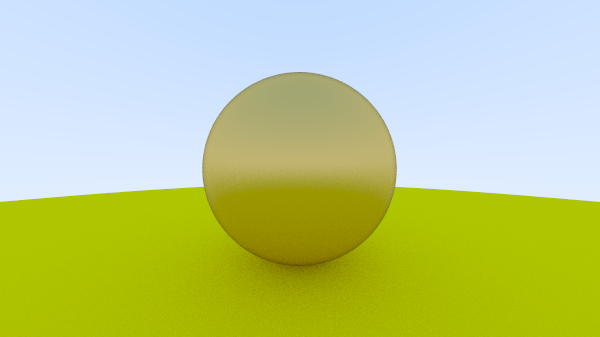
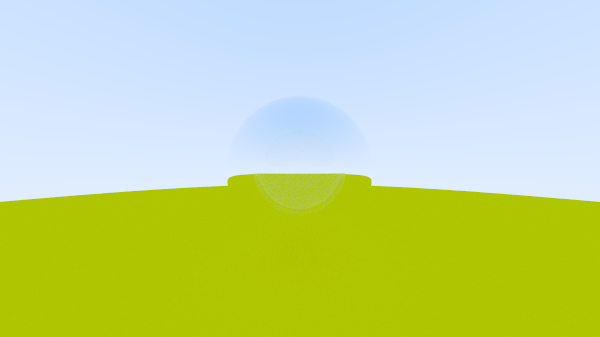
dielectric materials

Changed region(s): [[0.33, 0.2077, 0.66, 0.9792]]

diff --git a/Akari_CUDA/Material.h b/Akari_CUDA/Material.h
@@ -48,3 +48,38 @@ public:
 		return (dot(scattered.direction, rec.normal) > 0);
 	}
 };
+
+class dielectric : public material
+{
+public:
+	double ir;
+
+	dielectric(double refraction_index) : ir(refraction_index){}
+	virtual bool scatter(const ray& r_in, const hit_record& rec, color& attenuation, ray& scattered) const  override
+	{
+		attenuation = color(1.0, 1.0, 1.0);
+		double refraction_ratio = rec.front_face ? (1.0 / ir) : ir;
+		vec3 unit_dir = get_unitVector(r_in.direction);
+
+		double cos_theta = fmin(dot(-unit_dir, rec.normal), 1.0);
+		double sin_theta = sqrt(1.0 - cos_theta * cos_theta);
+
+		bool cant_refract = refraction_ratio * sin_theta > 1.0;
+		vec3 dir;
+
+		if (cant_refract || reflectance(cos_theta,refraction_ratio) > random_double())
+			dir = reflect(unit_dir, rec.normal);
+		else
+			dir = refract(unit_dir, rec.normal, refraction_ratio);
+
+		scattered = ray(rec.p, dir);
+		return true;
+	}
+private:
+	static double reflectance(double cosine, double ref_idx)
+	{
+		auto r0 = (1 - ref_idx) / (1 + ref_idx);
+		r0 = r0 * r0;
+		return r0 + (1 - r0) * pow((1 - cosine), 5);
+	}
+};

diff --git a/Akari_CUDA/Akari.cpp b/Akari_CUDA/Akari.cpp
@@ -12,8 +12,9 @@ int main()
 	auto material_ground = std::make_shared<lambertian>(color(0.8, 0.8, 0.0));
 	auto material_diffuse_sphere = std::make_shared<lambertian>(color(0.7, 0.3, 0.3));
 	auto material_metal = std::make_shared<metal>(color(0.8, 0.6, 0.2), 0.3);
+	auto material_glass = std::make_shared<dielectric>(1.5);
 	hittableList world;
-	world.add(std::make_shared<sphere>(point3(0, 0, -1), 0.5, material_metal));
+	world.add(std::make_shared<sphere>(point3(0, 0, -1), -0.4, material_glass));
 	world.add(std::make_shared<sphere>(point3(0, -100.5, -1), 100, material_ground));
 
 

diff --git a/Akari_CUDA/Vec3.cpp b/Akari_CUDA/Vec3.cpp
@@ -86,6 +86,13 @@ vec3 reflect(const vec3& v, const vec3& n)
 	return v - n * dot(v, n) * 2 ;
 }
 
+vec3 refract(const vec3& v, const vec3& n, double eta)
+{
+	auto cos_theta = fmin(dot(-v, n), 1.0);
+	vec3 r_perp = (v + n * cos_theta) * eta;
+	vec3 r_parallel = n * -sqrt(fabs(1.0 - r_perp.length_square()));
+	return r_perp + r_parallel;
+}
 
 const bool vec3::near_zero() 
 {

diff --git a/Akari_CUDA/Vec3.h b/Akari_CUDA/Vec3.h
@@ -49,3 +49,4 @@ vec3 cross(const vec3& u, const vec3& v) ;
 vec3 get_unitVector(const vec3& u);
 vec3 random_in_unit_sphere();
 vec3 reflect(const vec3& v, const vec3& n);
+vec3 refract(const vec3& v, const vec3& n, double eta);
